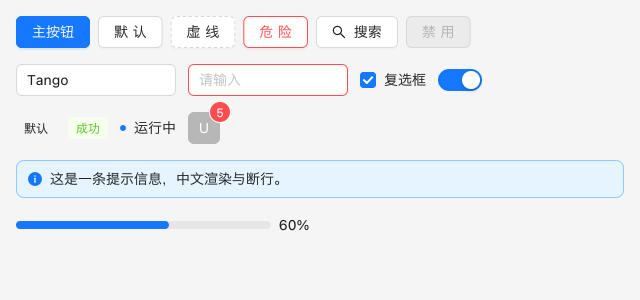
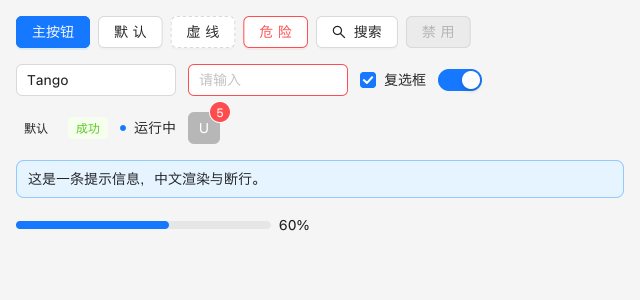
chore: batch 3 API docs changelog and golden updates

Changed region(s): [[0.0312, 0.57, 0.4375, 0.63]]

diff --git a/examples/ui-gallery/page_feedback.go b/examples/ui-gallery/page_feedback.go
@@ -9,18 +9,18 @@ import (
 func init() {
 	gallery.Register(gallery.Page{Name: "Alert", Title: "Alert 警告提示", Group: gallery.Feedback, Order: 1, Render: func(c *ui.Context) {
 		ui.Column(c, func() {
-			ui.Alert(c, "success", "成功提示的文案").Show()
-			ui.Alert(c, "info", "消息提示的文案").Show()
-			ui.Alert(c, "warning", "警告提示的文案").Closable().Show()
-			ui.Alert(c, "error", "错误提示的文案").Show()
-			ui.Alert(c, "success", "成功提示的文案").Description("成功提示的辅助性文字介绍，成功提示的辅助性文字介绍。").Show()
-			ui.Alert(c, "error", "错误").Description("错误提示的辅助性文字介绍。").Show()
+			ui.Alert(c, "success", "成功提示的文案").ShowIcon(true).Show()
+			ui.Alert(c, "info", "消息提示的文案").ShowIcon(true).Show()
+			ui.Alert(c, "warning", "警告提示的文案").ShowIcon(true).Closable().Show()
+			ui.Alert(c, "error", "错误提示的文案").ShowIcon(true).Show()
+			ui.Alert(c, "success", "成功提示的文案").ShowIcon(true).Description("成功提示的辅助性文字介绍，成功提示的辅助性文字介绍。").Show()
+			ui.Alert(c, "error", "错误").ShowIcon(true).Description("错误提示的辅助性文字介绍。").Show()
 			// Element effect="dark" 与 center
-			ui.Alert(c, "success", "深色主题的成功提示").Effect(ui.AlertEffectDark).Show()
-			ui.Alert(c, "info", "深色主题的消息提示").Effect(ui.AlertEffectDark).Closable().Show()
-			ui.Alert(c, "warning", "深色、居中的警告提示").Effect(ui.AlertEffectDark).Center().Show()
-			ui.Alert(c, "error", "深色错误").Effect(ui.AlertEffectDark).Description("深色背景上的辅助性文字介绍。").Show()
-			ui.Alert(c, "info", "居中的消息提示").Center().Closable().Show()
+			ui.Alert(c, "success", "深色主题的成功提示").ShowIcon(true).Effect(ui.AlertEffectDark).Show()
+			ui.Alert(c, "info", "深色主题的消息提示").ShowIcon(true).Effect(ui.AlertEffectDark).Closable().Show()
+			ui.Alert(c, "warning", "深色、居中的警告提示").ShowIcon(true).Effect(ui.AlertEffectDark).Center().Show()
+			ui.Alert(c, "error", "深色错误").ShowIcon(true).Effect(ui.AlertEffectDark).Description("深色背景上的辅助性文字介绍。").Show()
+			ui.Alert(c, "info", "居中的消息提示").ShowIcon(true).Center().Closable().Show()
 		}, layout.Gap(16))
 	}})
 	gallery.Register(gallery.Page{Name: "Popconfirm", Title: "Popconfirm 气泡确认框", Group: gallery.Feedback, Order: 5, Height: 300,

diff --git a/examples/ui-gallery/page_nav_feedback.go b/examples/ui-gallery/page_nav_feedback.go
@@ -200,31 +200,31 @@ func spinPage(c *ui.Context) {
 			ui.Spin(c).Size(ui.Small)
 			ui.Spin(c)
 			ui.Spin(c).Size(ui.Large)
-			ui.Spin(c).Tip("加载中")
+			ui.Spin(c).Description("加载中")
 			ui.Spin(c).Size(ui.Large).Percent(spinPct)
 			ui.Spin(c).Delay(500 * time.Millisecond)
 		}, layout.Gap(48), layout.Middle())
 	})
 	navDemo(c, "嵌套：包裹的内容半透明", "Spin(c).Spinning(on).Wrap(fn)", func() {
-		ui.Spin(c).Tip("加载中…").Wrap(func() {
-			ui.Alert(c, "info", "被嵌套的内容").Description("容器加载时内容半透明，指示器居中显示。").Show()
+		ui.Spin(c).Description("加载中…").Wrap(func() {
+			ui.Alert(c, "info", "被嵌套的内容").ShowIcon(true).Description("容器加载时内容半透明，指示器居中显示。").Show()
 		})
 	})
 }
 
 func loadingPage(c *ui.Context) {
-	navDemo(c, "区域加载", "Loading(c, on).Tip(...).Body(fn) 用遮罩覆盖区域（Element v-loading）。", func() {
+	navDemo(c, "区域加载", "Loading(c, on).Text(...).Body(fn) 用遮罩覆盖区域（Element v-loading）。", func() {
 		ui.Switch(c, &fb2.region).A11yLabel("区域加载")
 		ui.Gap(c, 12)
-		ui.Loading(c, fb2.region).Tip("拼命加载中").Body(func() {
-			ui.Alert(c, "success", "区域加载").Description("加载时遮罩挡住下层内容的交互。").Show()
+		ui.Loading(c, fb2.region).Text("拼命加载中").Body(func() {
+			ui.Alert(c, "success", "区域加载").ShowIcon(true).Description("加载时遮罩挡住下层内容的交互。").Show()
 		})
 	})
 	navDemo(c, "全屏加载", "Loading(c, on).Fullscreen() 覆盖整个窗口。", func() {
 		if ui.Button(c, "全屏加载").Icon(icon.Loading).Clicked() {
 			fb2.loading = true
 		}
-		ui.Loading(c, fb2.loading).Tip("加载中").Fullscreen()
+		ui.Loading(c, fb2.loading).Text("加载中").Fullscreen()
 	})
 }
 

diff --git a/examples/ui-gallery/page_p2c_display.go b/examples/ui-gallery/page_p2c_display.go
@@ -122,8 +122,8 @@ func p2cDividerPage(c *ui.Context) {
 func p2cAlertPage(c *ui.Context) {
 	navDemo(c, "操作区 Action", "", func() {
 		ui.Column(c, func() {
-			ui.Alert(c, "success", "已保存草稿").Closable().Action(func() { ui.Button(c, "撤销").Small() }).Show()
-			ui.Alert(c, "info", "有新版本可用").Description("新版本修复了若干问题，建议更新。").Action(func() {
+			ui.Alert(c, "success", "已保存草稿").ShowIcon(true).Closable().Action(func() { ui.Button(c, "撤销").Small() }).Show()
+			ui.Alert(c, "info", "有新版本可用").ShowIcon(true).Description("新版本修复了若干问题，建议更新。").Action(func() {
 				ui.Column(c, func() {
 					ui.Button(c, "立即更新").Small().Primary()
 					ui.Button(c, "稍后").Small()

diff --git a/examples/ui-gallery/page_nav_global.go b/examples/ui-gallery/page_nav_global.go
@@ -28,7 +28,7 @@ func configPage(c *ui.Context) {
 			}, layout.Gap(8), layout.Middle())
 			ui.Steps(c, []ui.StepItem{{Title: loc.Success}, {Title: loc.Loading}, {Title: loc.Confirm}}).Current(1).Small().Show()
 			ui.Text(c, fmt.Sprintf("%s · %s · %s · %s", loc.NoData, loc.Total(85), loc.PageSizeLabel(10), loc.BackTop)).Secondary()
-			ui.Spin(c).Tip(loc.Loading)
+			ui.Spin(c).Description(loc.Loading)
 		}, layout.Gap(12))
 	}
 	navDemo(c, "全局尺寸 small / middle / large", "ConfigProvider.Size 影响内部未显式指定尺寸的组件。", func() {

diff --git a/ui/pro3_list.go b/ui/pro3_list.go
@@ -259,7 +259,7 @@ func (p *ProListW[T]) Show() *ProListW[T] {
 		}
 		if p.request != nil && st.err != nil {
 			Row(c, func() {
-				Alert(c, "error", locFmt(c.Locale().ProTable.LoadErrorFmt, st.err.Error())).Show()
+				Alert(c, "error", locFmt(c.Locale().ProTable.LoadErrorFmt, st.err.Error())).ShowIcon(true).Show()
 			}, layout.Margin(geom.Insets{Bottom: 12}))
 			Row(c, func() {
 				if Button(c, c.Locale().Retry).Small().Icon(icon.Reload).Clicked() {

diff --git a/ui/align_b2e1_test.go b/ui/align_b2e1_test.go
@@ -251,8 +251,8 @@ func TestAlignB2E1SelectAllCentred(t *testing.T) {
 			d.Settle()
 			row := mustFind(t, d, "row:a")
 			w := th.Components.Table.SelectionColumnWidth
-			if bordered && th.Flavor != theme.Element {
-				w += 16 // antd selection.js: bordered + 2 × paddingXS
+			if bordered {
+				w += th.Components.Table.SelectionBorderedExtra
 			}
 			// Body checkbox centred in its cell.
 			d.Click(geom.Pt(row.X+w/2, row.Y+row.H/2))

diff --git a/ui/shad2d_table.go b/ui/shad2d_table.go
@@ -51,7 +51,7 @@ func (p *ProTableW[T]) shadContent() {
 	p.toolbarRow()
 	if st.err != nil {
 		Row(c, func() {
-			Alert(c, "error", locFmt(c.Locale().ProTable.LoadErrorFmt, st.err.Error())).Show()
+			Alert(c, "error", locFmt(c.Locale().ProTable.LoadErrorFmt, st.err.Error())).ShowIcon(true).Show()
 		}, layout.Margin(geom.Insets{Bottom: 16}))
 		Row(c, func() {
 			if Button(c, c.Locale().Retry).Small().Icon(icon.Reload).Clicked() {

diff --git a/ui/pro3_descriptions.go b/ui/pro3_descriptions.go
@@ -227,7 +227,7 @@ func (p *ProDescriptionsW) Show() *ProDescriptionsW {
 	}
 	root.Body(func() {
 		if st.err != nil {
-			Row(c, func() { Alert(c, "error", st.err.Error()).Show() }, layout.Margin(geom.Insets{Bottom: 16}))
+			Row(c, func() { Alert(c, "error", st.err.Error()).ShowIcon(true).Show() }, layout.Margin(geom.Insets{Bottom: 16}))
 		}
 		Loading(c, st.loading).Body(func() { p.list(vals) })
 	})

diff --git a/ui/pro3_login.go b/ui/pro3_login.go
@@ -308,7 +308,7 @@ func (w *LoginFormW) build() {
 			}, layout.Center(), layout.Margin(geom.Insets{Bottom: 8}))
 		}
 		if st.err != nil {
-			Row(c, func() { Alert(c, "error", st.err.Error()).Show() }, layout.Margin(geom.Insets{Bottom: 24}))
+			Row(c, func() { Alert(c, "error", st.err.Error()).ShowIcon(true).Show() }, layout.Margin(geom.Insets{Bottom: 24}))
 		}
 		w.fields()
 	})

diff --git a/ui/table_pro.go b/ui/table_pro.go
@@ -645,7 +645,7 @@ func (p *ProTableW[T]) content() {
 		if st.err != nil {
 			Row(c, func() {
 				a := Alert(c, "error", locFmt(c.Locale().ProTable.LoadErrorFmt, st.err.Error()))
-				a.Show()
+				a.ShowIcon(true).Show()
 			}, layout.Margin(geom.Insets{Bottom: 16}))
 			Row(c, func() {
 				if Button(c, c.Locale().Retry).Small().Icon(icon.Reload).Clicked() {

diff --git a/ui/form_pro.go b/ui/form_pro.go
@@ -297,7 +297,7 @@ func (p *ProFormW) content(vals ProValues) {
 		}
 		if st.err != nil {
 			Row(c, func() {
-				Alert(c, "error", st.err.Error()).Show()
+				Alert(c, "error", st.err.Error()).ShowIcon(true).Show()
 			}, layout.Margin(geom.Insets{Bottom: 16}))
 		}
 		if p.noSubmit || p.readonly {

diff --git a/ui/jsonview.go b/ui/jsonview.go
@@ -431,7 +431,7 @@ func (w *JSONViewW) build() {
 	}
 	w.b.n.ln.MinH = 80
 	if w.err != nil {
-		Alert(c, "error", loc.ParseError(w.err.Error())).Show()
+		Alert(c, "error", loc.ParseError(w.err.Error())).ShowIcon(true).Show()
 		return
 	}
 	if w.toolbar {
